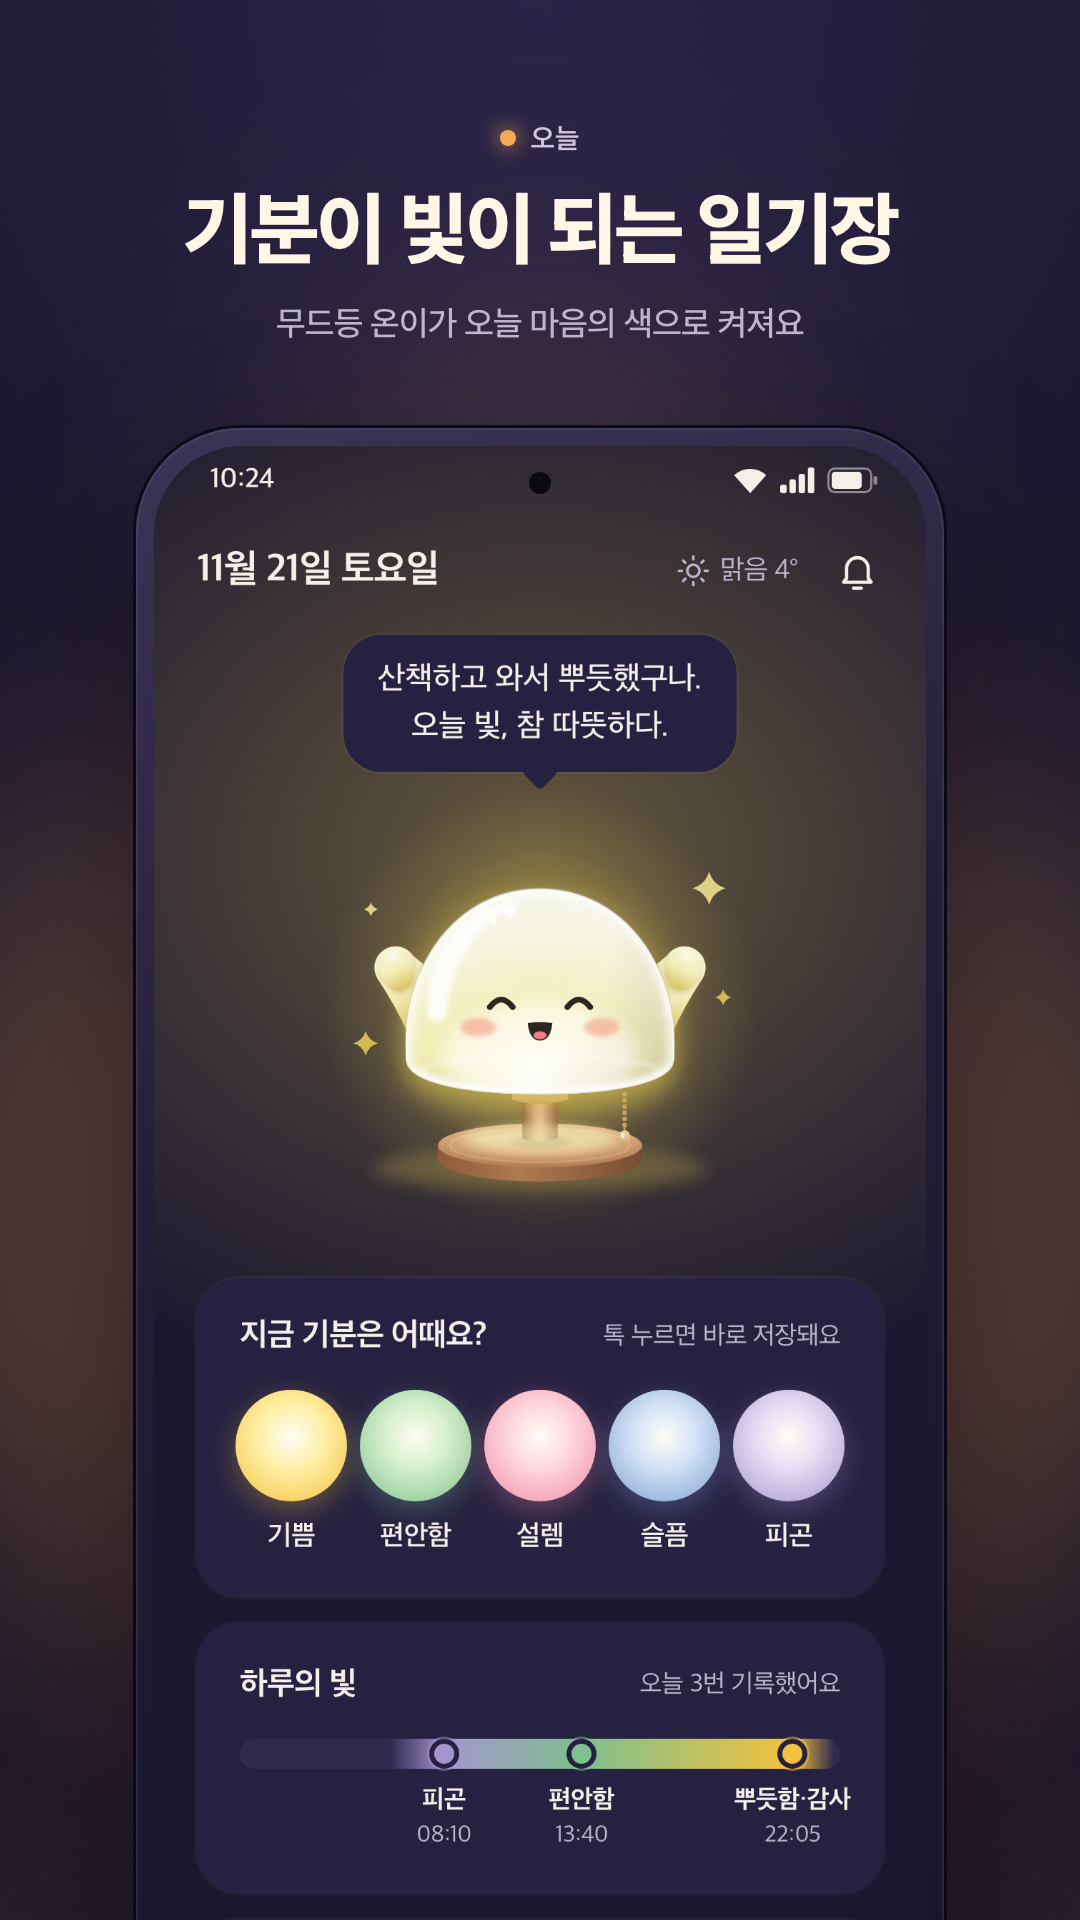
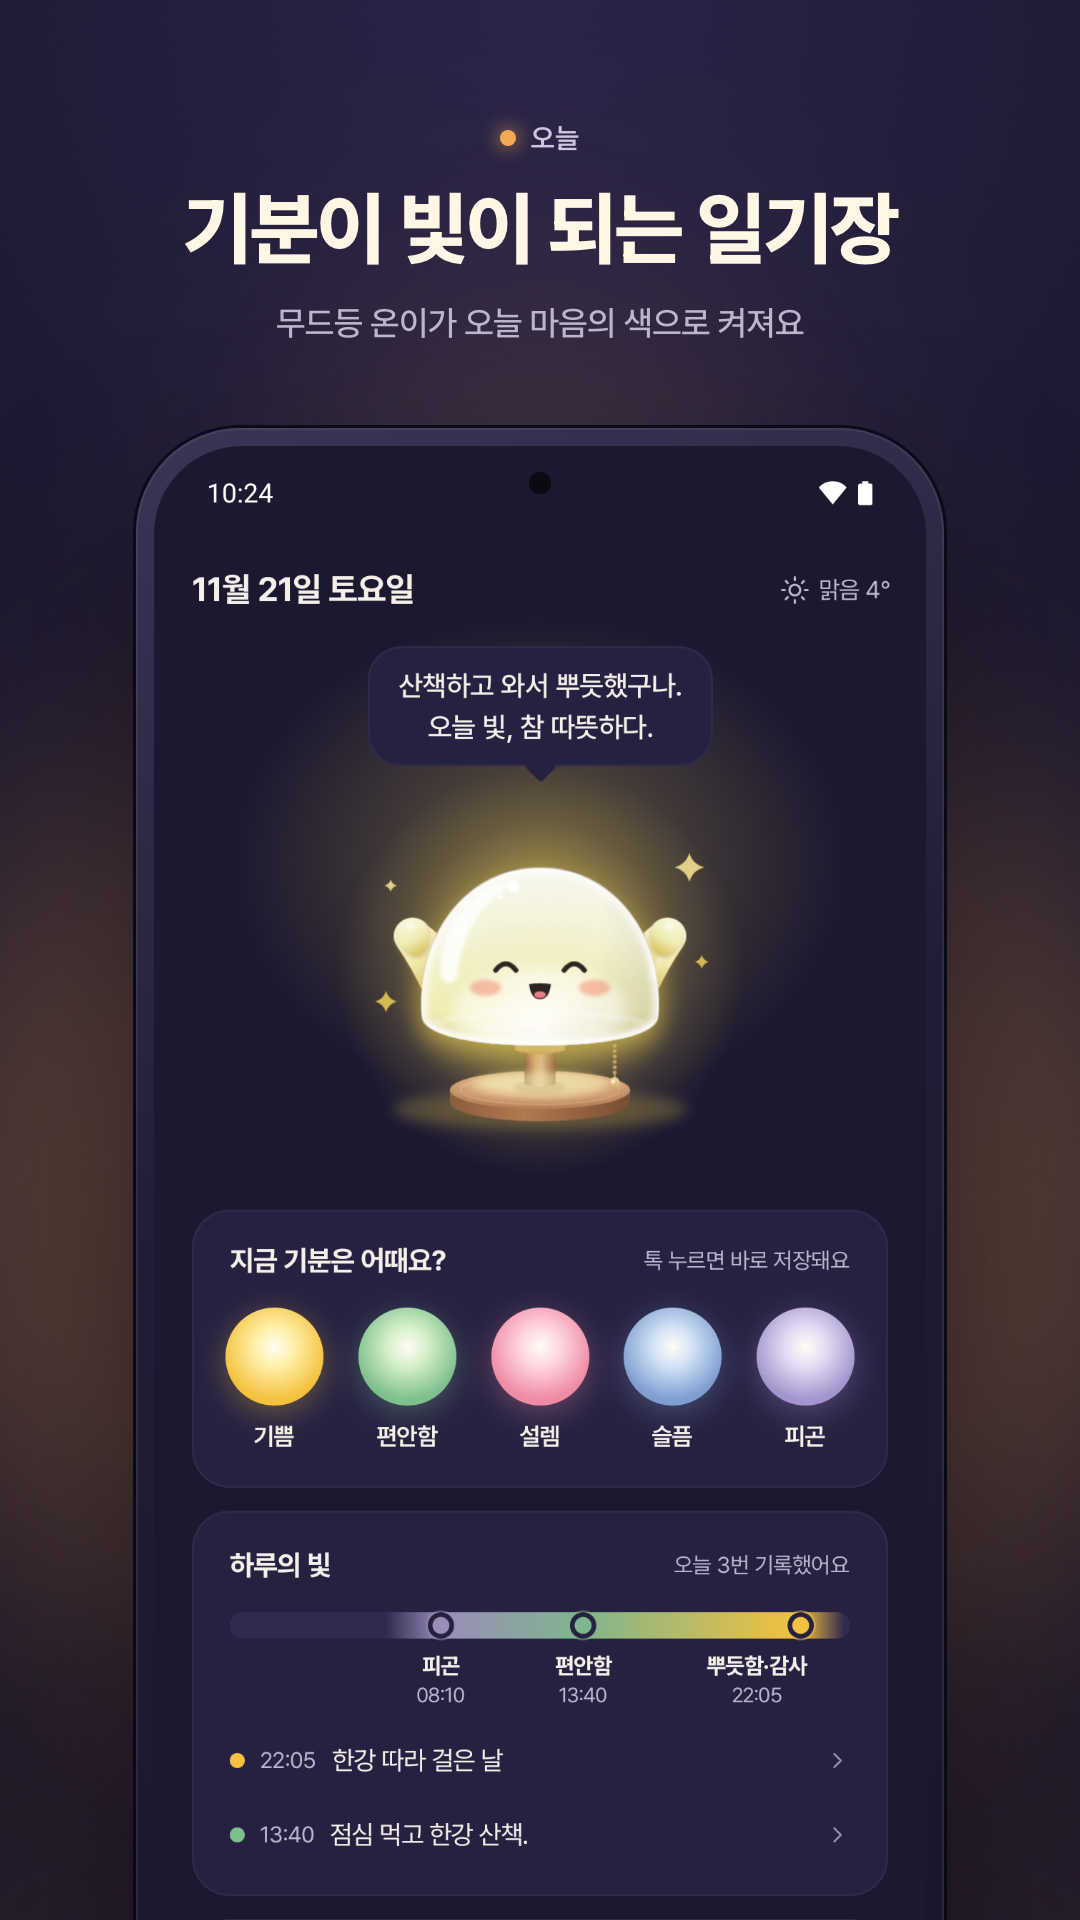
스토어 스크린샷을 실제 앱 캡처로 교체, 태블릿 스크린샷 4장 추가
- 폰 8장: Pixel_8 에뮬레이터 디버그 빌드 캡처(샘플 데이터, 데모 모드 상태 표시줄, 광고 숨김)
- 태블릿 4장(2560x1600): 오늘, 캘린더 두 칸, 리포트, 쓰기 나란히
- make_store.py가 store/captures/의 캡처를 쓰도록 변경, 미리보기 시트에 태블릿 추가
- listing.md / PLAY_CHECKLIST.md의 시안 기반 안내 제거

Changed region(s): [[0.1222, 0.2188, 0.8556, 0.9688]]

diff --git a/store/make_store.py b/store/make_store.py
@@ -1,9 +1,11 @@
 """Play Store graphics for 온이 일기 v2.0.
 
-Builds, from the approved screen designs (JWG/release/일기장_화면_시안/, dark theme):
+Builds, from real app captures in store/captures/ (debug build on the Pixel_8 / Pixel_Tablet emulators,
+DebugSeedReceiver sample data, `--es nav` deep links, SystemUI demo mode status bar, premium debug flag = no ads):
   store/icon_512.png                       app icon (copied from 캐릭터 시안 app_icon/final_A)
   store/feature_graphic.png                1024x500
-  store/screenshots/screenshot_01..08.png  1080x1920
+  store/screenshots/screenshot_01..08.png  1080x1920 (phone)
+  store/screenshots_tablet/tablet_01..04.png  2560x1600 (tablet, landscape)
   store/preview_sheet.png                  contact sheet for review
 
 Look: a warm night desk. Deep violet room, the mood light pooling behind the phone, Oni as the hero.
@@ -12,12 +14,12 @@ Rendered with headless Chrome through the character package's render_many (same 
     python3 store/make_store.py
 """
 import pathlib, shutil, sys
-from PIL import Image, ImageDraw
+from PIL import Image
 
 STORE = pathlib.Path(__file__).resolve().parent
 REPO = STORE.parent
 JWG = REPO.parent.parent
-SCREENS = JWG / 'release' / '일기장_화면_시안'
+CAPS = STORE / 'captures'
 CHAR = JWG / 'release' / '일기장_캐릭터_시안'
 sys.path.insert(0, str(CHAR / '_source'))
 import oni as O  # noqa: E402
@@ -66,52 +68,63 @@ SHOT_CSS = """
   color:#F4EFE8;background:rgba(28,24,48,.82);box-shadow:0 0 0 1px rgba(255,255,255,.1) inset,0 8px 24px rgba(0,0,0,.35);backdrop-filter:blur(6px)}
 """
 
-# (screen file, eyebrow, glow, headline, sub, note)
+# (capture, eyebrow, glow, headline, sub, note)
 SHOTS = [
-    ('02_오늘_dark', '오늘', '#F5A957', '기분이 빛이 되는 일기장', '무드등 온이가 오늘 마음의 색으로 켜져요', None),
-    ('08_위젯_홈화면_dark', '1탭 기분', '#EE8BA5', '톡 한 번이면 기록 끝', '홈 화면 위젯에서 1초 만에 남겨요', None),
-    ('03_쓰기_1_감정고르기_dark', '감정 + 강도', '#F4C23E', '마음은 한 가지가 아니니까', '감정 20가지를 골라 강도까지, 빛이 섞여요', None),
-    ('04_답장_2_도착_dark', '온이의 답장', '#F4C23E', '온이가 답장을 써 줘요', '일기는 폰 안의 AI만 읽어요, 서버 전송 없이', None),
-    ('05_캘린더_1_월간_dark', '무드 캘린더', '#7FC08F', '한 달이 빛으로 물들어요', '날짜마다 그날의 빛, 하루의 흐름까지', None),
-    ('06_리포트_1_월간_dark', '리포트', '#7FC08F', '내 마음의 패턴을 알아요', '자주 느낀 감정부터 기분을 바꾼 활동까지', None),
-    ('03_쓰기_3_대화로쓰기_dark', '대화로 쓰기', '#A595CF', '말하듯 쓰는 일기', '온이가 묻고 내가 답하면 한 편의 일기로', None),
-    ('07_마이_4_잠금_dark', '잠금 · 백업', '#F5A957', '내 일기는 나만 봐요', 'PIN·지문 잠금, 내 Google 드라이브에 자동 백업', None),
+    ('phone_01_today', '오늘', '#F5A957', '기분이 빛이 되는 일기장', '무드등 온이가 오늘 마음의 색으로 켜져요', None),
+    ('phone_02_widgets', '1탭 기분', '#EE8BA5', '톡 한 번이면 기록 끝', '홈 화면 위젯에서 1초 만에 남겨요', None),
+    ('phone_03_emotions', '감정 + 강도', '#F4C23E', '마음은 한 가지가 아니니까', '감정 20가지를 골라 강도까지, 빛이 섞여요', None),
+    ('phone_04_reply', '온이의 답장', '#F4C23E', '온이가 답장을 써 줘요', '일기는 폰 안의 AI만 읽어요, 서버 전송 없이', None),
+    ('phone_05_calendar', '무드 캘린더', '#7FC08F', '한 달이 빛으로 물들어요', '날짜마다 그날의 빛, 하루의 흐름까지', None),
+    ('phone_06_report', '리포트', '#7FC08F', '내 마음의 패턴을 알아요', '자주 느낀 감정부터 기분을 바꾼 활동까지', None),
+    ('phone_07_chat', '대화로 쓰기', '#A595CF', '말하듯 쓰는 일기', '온이가 묻고 내가 답하면 한 편의 일기로', None),
+    ('phone_08_lock', '잠금 · 백업', '#F5A957', '내 일기는 나만 봐요', 'PIN·지문 잠금, 내 Google 드라이브에 자동 백업', None),
+]
+
+TABLET = [
+    ('tablet_01_today', '오늘', '#F5A957', '넓은 화면에서도 온이와 함께', '오늘의 빛, 하루의 흐름, 1년 전 오늘까지 한눈에'),
+    ('tablet_02_calendar', '무드 캘린더', '#EE8BA5', '달력 옆에 그날의 이야기', '날짜를 누르면 일기와 답장이 바로 옆에 펼쳐져요'),
+    ('tablet_03_report', '리포트', '#7FC08F', '내 마음의 패턴을 한 화면에', '자주 느낀 감정, 기분을 바꾼 활동, 요일·시간대'),
+    ('tablet_04_write', '쓰기', '#F4C23E', '감정과 글을 나란히', '왼쪽에서 마음의 색을 고르고, 오른쪽에 하루를 적어요'),
 ]
 
 
-AD_TOP = {'05_캘린더_1_월간_dark': 1850}
+def cap(name):
+    return (CAPS / f'{name}.png').as_uri()
 
 
-def screen_src(name):
-    """Top 1080x2400 of the 시안 (long screens are full scrolls)."""
-    im = Image.open(SCREENS / f'{name}.png').convert('RGB')
-    p = TMP / f'{name}.png'
-    im = im.crop((0, 0, 1080, 2400))
-    if name in AD_TOP:  # the 시안 shows a placeholder banner; a store shot shouldn't advertise an empty ad slot
-        ImageDraw.Draw(im).rectangle((0, AD_TOP[name], 1080, 2400), fill='#1C1830')
-    im.save(p)
-    return p.as_uri()
-
-
-def backup_card():
-    p = TMP / 'backup_card.png'
-    Image.open(SCREENS / '07_마이_1_홈_dark.png').convert('RGB').crop((58, 865, 1022, 1177)).save(p)
-    return p.as_uri()
-
-
-def shot_html(i, name, eb, glow, hd, sub, note):
+def shot_html(name, eb, glow, hd, sub, note):
     pools = (f'<div class="pool" style="left:-60px;top:330px;width:660px;height:560px;background:{hx(glow, .30)}"></div>'
              f'<div class="pool" style="left:150px;top:150px;width:240px;height:200px;background:{hx(glow, .16)}"></div>'
              f'<div class="pool" style="left:-120px;top:880px;width:780px;height:220px;background:{hx("#F5A957", .10)}"></div>')
     extra = ''
-    if name.startswith('07_마이_4'):  # 잠금 + the verified backup card floating over it
-        extra = (f'<img class="float" src="{backup_card()}" style="left:34px;top:700px;width:472px">')
+    if name == 'phone_08_lock':  # 잠금 + the 마이 › 자동 백업 card floating over it
+        extra = f'<img class="float" src="{cap("phone_08_backup_card")}" style="left:34px;top:740px;width:472px;border-radius:26px">'
     nt = f'<div class="note"><span>{note}</span></div>' if note else ''
     body = (f'<div class="room"></div>{pools}<div class="grain"></div>'
             f'<div class="cap"><div class="eb"><i style="background:{glow};box-shadow:0 0 10px {glow}"></i>{eb}</div>'
             f'<div class="hd">{hd}</div><div class="sub">{sub}</div></div>'
-            f'<div class="phone"><div class="scr" style="background-image:url({screen_src(name)})"></div></div>{extra}{nt}')
+            f'<div class="phone"><div class="scr" style="background-image:url({cap(name)})"></div></div>{extra}{nt}')
     return page(W, H, body, SHOT_CSS, blur=70)
+
+
+# ---------- tablet screenshots (1280x800 CSS px @2x = 2560x1600, landscape) ----------
+TW, TH = 1280, 800
+TAB_CSS = SHOT_CSS.replace('top:58px', 'top:44px') + """
+.tab{position:absolute;left:50%;top:206px;width:1000px;margin-left:-500px;padding:10px;border-radius:36px;
+  background:linear-gradient(160deg,#3B3456,#221D36 40%,#17142A);z-index:2;
+  box-shadow:0 0 0 1px rgba(255,255,255,.07) inset,0 40px 80px rgba(6,4,16,.55),0 0 0 1.5px #0E0C1A}
+.tab .scr{width:980px;height:612.5px;border-radius:26px;overflow:hidden;background:#1C1830 top/100% auto no-repeat}
+"""
+
+
+def tablet_html(name, eb, glow, hd, sub):
+    pools = (f'<div class="pool" style="left:80px;top:300px;width:1120px;height:520px;background:{hx(glow, .28)}"></div>'
+             f'<div class="pool" style="left:470px;top:70px;width:340px;height:180px;background:{hx(glow, .16)}"></div>')
+    body = (f'<div class="room"></div>{pools}<div class="grain"></div>'
+            f'<div class="cap"><div class="eb"><i style="background:{glow};box-shadow:0 0 10px {glow}"></i>{eb}</div>'
+            f'<div class="hd">{hd}</div><div class="sub">{sub}</div></div>'
+            f'<div class="tab"><div class="scr" style="background-image:url({cap(name)})"></div></div>')
+    return page(TW, TH, body, TAB_CSS, blur=80)
 
 
 # ---------- feature graphic (1024x500 @1, rendered @2 then downscaled) ----------
@@ -150,12 +163,18 @@ def feature_html():
     return page(1024, 500, body, FG_CSS, blur=50)
 
 
-def preview_sheet(shots, fg):
+def preview_sheet(shots, fg, tabs):
     cols, tw, gap = 4, 380, 36
     th = round(tw * 1920 / 1080)
     fw = cols * tw + (cols - 1) * gap
     fh = round(fw * 500 / 1024)
-    sheet = Image.new('RGB', (fw + gap * 2, gap + fh + gap + 2 * (th + gap)), (20, 17, 36))
+    pw = (fw - gap) // 2
+    ph = round(pw * 1600 / 2560)
+    top = gap * 2 + fh + 2 * (th + gap)
+    sheet = Image.new('RGB', (fw + gap * 2, top + 2 * (ph + gap)), (20, 17, 36))
+    for i, p in enumerate(tabs):
+        r, c = divmod(i, 2)
+        sheet.paste(Image.open(p).resize((pw, ph), Image.LANCZOS), (gap + c * (pw + gap), top + r * (ph + gap)))
     sheet.paste(Image.open(fg).resize((fw, fh), Image.LANCZOS), (gap, gap))
     for i, p in enumerate(shots):
         r, c = divmod(i, cols)
@@ -177,21 +196,31 @@ if __name__ == '__main__':
     TMP.mkdir(exist_ok=True)
     (STORE / 'screenshots').mkdir(exist_ok=True)
     shutil.copy(CHAR / 'app_icon/final_A/playstore_512.png', STORE / 'icon_512.png')
-    only = sys.argv[1:]  # e.g. `make_store.py 3 fg`
+    only = sys.argv[1:]  # e.g. `make_store.py 3 t2 fg`
     jobs, shots = [], []
     for i, s in enumerate(SHOTS, 1):
         p = STORE / f'screenshots/screenshot_{i:02d}.png'
         shots.append(p)
         if not only or str(i) in only:
-            jobs.append((shot_html(i, *s), str(p), W, H, False, 2))
+            jobs.append((shot_html(*s), str(p), W, H, False, 2))
+    (STORE / 'screenshots_tablet').mkdir(exist_ok=True)
+    tabs = []
+    for i, t in enumerate(TABLET, 1):
+        p = STORE / f'screenshots_tablet/tablet_{i:02d}.png'
+        tabs.append(p)
+        if not only or f't{i}' in only:
+            jobs.append((tablet_html(*t), str(p), TW, TH, False, 2))
     fg = STORE / 'feature_graphic.png'
     if not only or 'fg' in only:
         jobs.append((feature_html(), str(fg), 1024, 500, False, 2))
     O.render_many(jobs, workers=6)
     for p in shots:
         to_rgb(p, (1080, 1920))
+    for p in tabs:
+        to_rgb(p, (2560, 1600))
     to_rgb(fg, (1024, 500))
-    print(preview_sheet(shots, fg))
+    print(preview_sheet(shots, fg, tabs))
     shutil.rmtree(TMP, ignore_errors=True)
     assert Image.open(fg).size == (1024, 500) and Image.open(fg).mode == 'RGB'
     assert all(Image.open(p).size == (1080, 1920) for p in shots)
+    assert all(Image.open(p).size == (2560, 1600) for p in tabs)

diff --git a/store/listing.md b/store/listing.md
@@ -70,11 +70,25 @@
 | 7 | 대화로 쓰기 | 말하듯 쓰는 일기 | 온이가 묻고 내가 답하면 한 편의 일기로 |
 | 8 | 잠금 + 백업 | 내 일기는 나만 봐요 | PIN·지문 잠금, 내 Google 드라이브에 자동 백업 |
 
+- 태블릿 스크린샷 4장: `screenshots_tablet/tablet_01~04.png` (2560×1600 가로)
+
+| # | 화면 | 제목 | 보조 문구 |
+|---|---|---|---|
+| T1 | 오늘 | 넓은 화면에서도 온이와 함께 | 오늘의 빛, 하루의 흐름, 1년 전 오늘까지 한눈에 |
+| T2 | 캘린더 (두 칸) | 달력 옆에 그날의 이야기 | 날짜를 누르면 일기와 답장이 바로 옆에 펼쳐져요 |
+| T3 | 리포트 | 내 마음의 패턴을 한 화면에 | 자주 느낀 감정, 기분을 바꾼 활동, 요일·시간대 |
+| T4 | 쓰기 (나란히) | 감정과 글을 나란히 | 왼쪽에서 마음의 색을 고르고, 오른쪽에 하루를 적어요 |
+
 **그래픽 메모**
-- 모든 스크린샷은 승인된 화면 시안(다크)으로 만들었어요. 실제 앱 캡처가 아니에요.
-  - 구현 화면이 시안과 달라지면 Play 정책("앱을 정확히 보여 줄 것")에 맞게 다시 만들어야 해요.
-  - 실기기 캡처로 바꾸려면 `SHOTS`의 파일만 갈아 끼우면 돼요.
-- 캘린더 시안의 광고 자리 표시는 지웠어요. 리포트 화면의 광고 자리는 화면 밖이라 보이지 않아요.
+- 폰 안 화면은 모두 실제 앱 캡처예요 (`captures/`). 디버그 빌드, 에뮬레이터 Pixel_8 / Pixel_Tablet.
+  - 데이터: `DebugSeedReceiver` 샘플(이번 달, 오늘 3개 기록, 1년 전 오늘). 화면 이동: `--es nav`.
+  - 상태 표시줄: SystemUI 데모 모드(10:24, 배터리 가득, 알림 없음). 쓰기·답장 화면은 앱이 현재 시각을 보여 주므로 그 시각에 맞췄어요.
+  - 광고: 디버그 프리미엄 플래그(`shared_prefs/billing.xml`의 `debug_force`)로 숨겼어요.
+  - 다크 6장 + 라이트 2장(3 감정, 6 리포트).
+- 4 답장은 템플릿 답장이에요. 7 대화로 쓰기는 온이를 깨우기 전 "준비된 질문" 모드 그대로예요.
+- 8은 잠금 화면 위에 마이 › 자동 백업 카드(실제 캡처, 꺼진 상태)를 얹었어요. 에뮬레이터에 Google 계정이 없어서 연결된 상태는 못 찍었어요.
+- 2 위젯 화면은 런처 배경만 어두운 그라데이션으로 바꿔서 찍었어요.
+- 앱 화면이 바뀌면 같은 방법으로 `captures/`의 파일만 다시 찍어 넣고 `python3 store/make_store.py`를 돌리면 돼요.
 
 ## 업데이트 소식 (v1 → v2 출시 노트, 500자 이내)
 

diff --git a/store/PLAY_CHECKLIST.md b/store/PLAY_CHECKLIST.md
@@ -129,7 +129,8 @@
   - 아이콘 `icon_512.png`
   - 그래픽 이미지 `feature_graphic.png`
   - 휴대전화 스크린샷 `screenshots/01~08`
-  - 시안 기반이므로 구현 화면이 크게 다르면 다시 만드세요(`listing.md` 그래픽 메모).
+  - 태블릿 스크린샷 `screenshots_tablet/01~04` (7인치·10인치 태블릿 칸)
+  - 모두 실제 앱 캡처(`captures/`). 화면이 바뀌면 다시 찍어 넣으세요(`listing.md` 그래픽 메모).
 
 ## 6. 빌드와 출시
 
